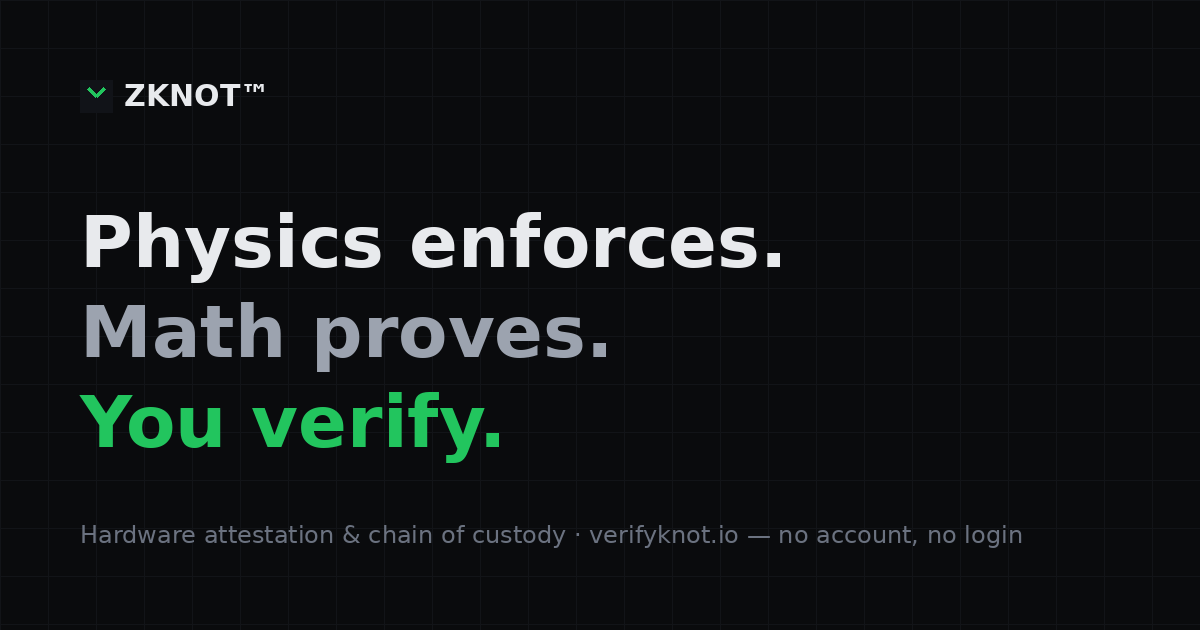
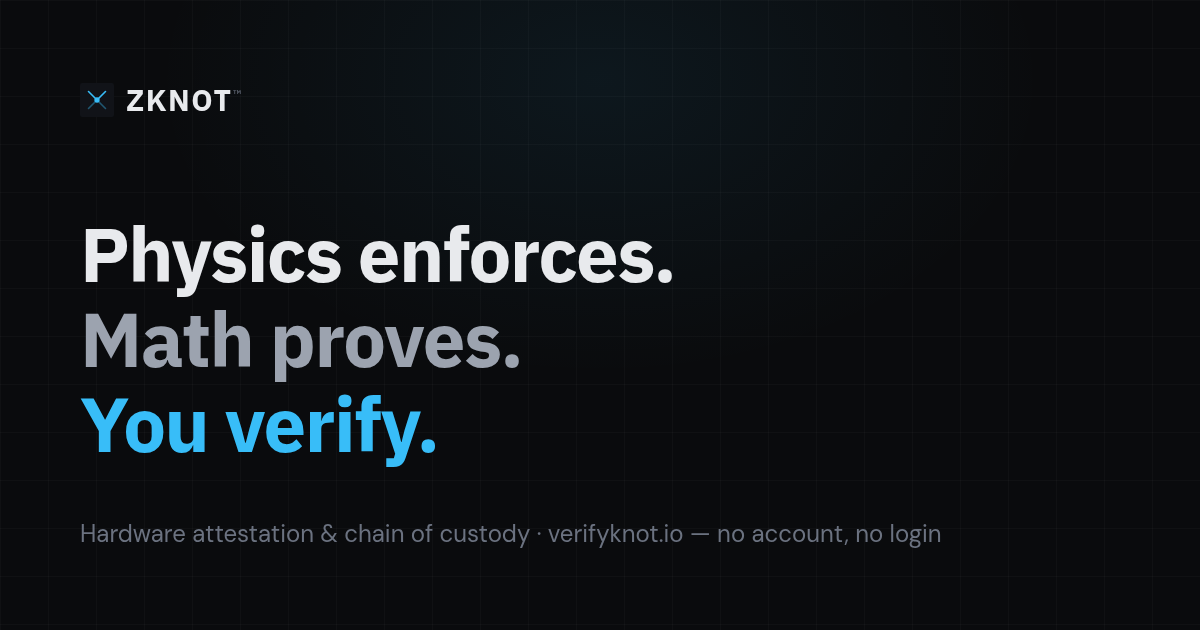
site: og-image.png in the 2026-10-18 palette, with its source committed
The share preview was still the pre-restyle image: DejaVu Sans Bold, a green
"You verify." and a green chevron logo. It is re-rendered to match the live
index.html hero: IBM Plex Sans 700 headline, "You verify." in --accent sky
#38bdf8, the nav's sky logo mark, and DM Sans for the subline. Copy unchanged.

The old PNG (e8037ab) had no source in the repo. og/og-image.html is now that
source. It sits outside ./public so the Worker does not serve it; the re-render
command is in its header comment (headless Chrome, 1200x630).

Changed region(s): [[0.0617, 0.3317, 0.6475, 0.754], [0.0617, 0.8143, 0.8633, 0.8746], [0.0617, 0.1206, 0.2158, 0.181]]

diff --git a/og/og-image.html b/og/og-image.html
@@ -1,0 +1,57 @@
+<!doctype html>
+<!--
+  Source for public/og-image.png (1200x630 share preview). Not deployed: the
+  Worker serves ./public only. Colours mirror public/css/zknot-tokens.css and
+  the index.html hero (2026-10-18 restyle). Re-render:
+    google-chrome --headless=new --hide-scrollbars --window-size=1200,630 \
+      --virtual-time-budget=5000 --screenshot=public/og-image.png og/og-image.html
+-->
+<html lang="en">
+<head>
+<meta charset="utf-8">
+<link href="https://fonts.googleapis.com/css2?family=IBM+Plex+Sans:wght@400;700&family=DM+Sans:wght@400&display=block" rel="stylesheet">
+<style>
+  :root {
+    --bg: #0a0b0d; --bg-card: #111318;
+    --text: #e8eaed; --text-dim: #9ca3af; --text-muted: #6b7280;
+    --accent: #38bdf8;
+  }
+  html, body { margin: 0; width: 1200px; height: 630px; overflow: hidden; background: var(--bg); }
+  body {
+    position: relative;
+    background-image:
+      linear-gradient(rgba(255,255,255,0.025) 1px, transparent 1px),
+      linear-gradient(90deg, rgba(255,255,255,0.025) 1px, transparent 1px);
+    background-size: 48px 48px;
+  }
+  .glow { position: absolute; top: -220px; left: 50%; transform: translateX(-50%); width: 900px; height: 600px;
+          background: radial-gradient(ellipse, rgba(56,189,248,0.07) 0%, transparent 70%); }
+  .inner { position: absolute; left: 80px; top: 80px; right: 80px; }
+  .logo { display: flex; align-items: center; gap: 12px; }
+  .logo svg { width: 34px; height: 34px; }
+  .logo span { font-family: 'IBM Plex Sans', sans-serif; font-weight: 700; font-size: 30px; letter-spacing: 0.05em; color: var(--text); }
+  .logo sup { font-size: 14px; font-weight: 400; color: var(--text-muted); }
+  h1 { font-family: 'IBM Plex Sans', sans-serif; font-weight: 700; font-size: 76px; line-height: 1.12;
+       letter-spacing: -0.02em; color: var(--text); margin: 92px 0 0; }
+  .l2 { color: var(--text-dim); }
+  .l3 { color: var(--accent); }
+  p { font-family: 'DM Sans', sans-serif; font-size: 24px; color: var(--text-muted); margin: 52px 0 0; }
+</style>
+</head>
+<body>
+  <div class="glow"></div>
+  <div class="inner">
+    <div class="logo">
+      <svg viewBox="0 0 32 32" fill="none" xmlns="http://www.w3.org/2000/svg">
+        <rect width="32" height="32" rx="2" fill="#111318"/>
+        <path d="M8 8L16 16L24 8" stroke="#38bdf8" stroke-width="1.5" stroke-linecap="round" stroke-linejoin="round"/>
+        <path d="M8 24L16 16L24 24" stroke="#38bdf8" stroke-width="1.5" stroke-linecap="round" stroke-linejoin="round" opacity="0.4"/>
+        <circle cx="16" cy="16" r="2.5" fill="#38bdf8"/>
+      </svg>
+      <span>ZKNOT<sup>™</sup></span>
+    </div>
+    <h1>Physics enforces.<br><span class="l2">Math proves.</span><br><span class="l3">You verify.</span></h1>
+    <p>Hardware attestation &amp; chain of custody · verifyknot.io — no account, no login</p>
+  </div>
+</body>
+</html>
